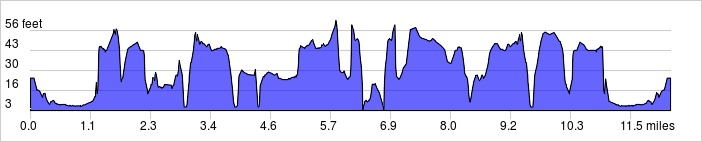
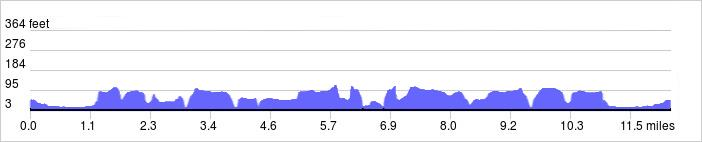
A few changes
- make 12 mile graphic look less frightening
- more info about spin class special
- cache top fundraisers results

diff --git a/php/top_fundraisers.php b/php/top_fundraisers.php
@@ -1,5 +1,22 @@
 <?php
 
+
+// attempt to use cached json file
+$cache_file = 'top_fundraisers.json';
+$cache_life = '600'; //caching time, in seconds
+
+$filemtime = @filemtime($cache_file);  // returns FALSE if file does not exist
+
+if (!$filemtime or (time() - $filemtime >= $cache_life)) {
+  // cache does not exist, or it has expired
+} else {
+  // valid cache exists
+  header('Content-Type: application/json');
+  echo file_get_contents($cache_file);
+  die();
+}
+
+// cache should be refreshed if this point is reached
 require_once "goutte-v1.0.7.phar";
 
 use Goutte\Client;
@@ -78,6 +95,9 @@ $fundraisers = array(
 );
 
 header('Content-Type: application/json');
-echo json_encode($fundraisers);
+$json = json_encode($fundraisers);
+echo $json;
+
+file_put_contents($cache_file, $json);
 
 ?>
